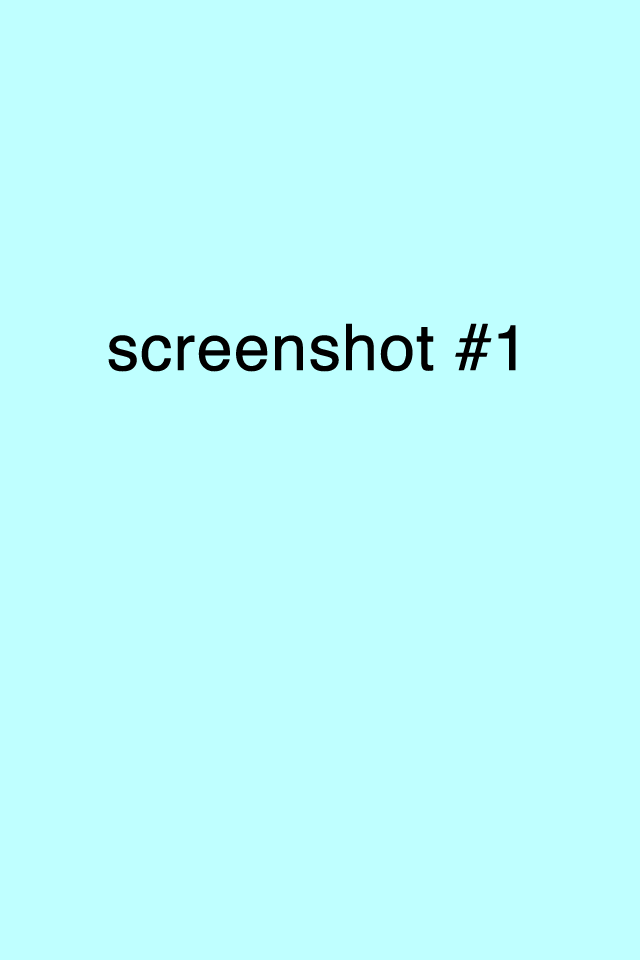
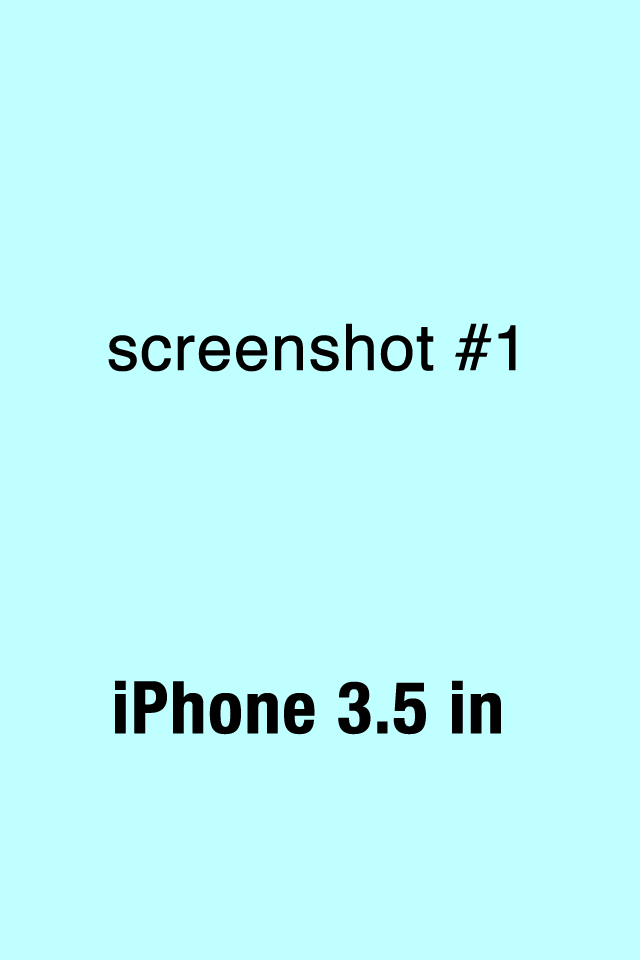
Added 4.7 and 5.5in support

Changed region(s): [[0.1562, 0.6875, 0.5, 0.7812], [0.5312, 0.6875, 0.7812, 0.7812]]

diff --git a/itunesfslib/converter.py b/itunesfslib/converter.py
@@ -108,7 +108,7 @@ def convert(path, outpath=''):
                     locale.update({asset_type : literal(asset)})
                 elif asset_type == 'screenshots':
                     devices_screenshots = {}
-                    for device in ['iphone_4in', 'iphone_3.5in', 'ipad']:
+                    for device in ['iphone_3.5in', 'iphone_4in', 'iphone_4.7in', 'iphone_5.5in', 'ipad']:
                         device_filepath = os.path.join(filepath, device)
                         if not os.path.exists(device_filepath):
                             continue

diff --git a/itunesfslib/command_line.py b/itunesfslib/command_line.py
@@ -59,7 +59,7 @@ def main():
                """you have to install itmsp from https://github.com/colinhumber/itunes_transporter_generator.\n\n"""
                """If you have ruby installed, run:\n   \"$ gem install itunes_transporter_generator\"""")
     os.chdir(savepath)
-    success = not subprocess.call([executable_path, 'package', '-i', 'output.yaml'])
+    success = not subprocess.call([executable_path, 'package', '-i', 'output.yaml','--prefix-image'])
     if not success:
         myexit('Failed to convert output.yaml to .itmsp package')
 

diff --git a/setup.py b/setup.py
@@ -10,7 +10,7 @@ if sys.version_info < (3, 0):
 
 setup(
     name='itunesfs',
-    version='1.0.0.7',
+    version='1.0.0.8',
     description='Script (python3 atm) for generating an iTunes Connect package (.itmsp) straight from your file system',
     long_description=open('README.rst', "r", encoding='utf-8-sig').read(),
     author='Petros Douvantzis',

diff --git a/README.md b/README.md
@@ -85,7 +85,7 @@ For ease of use, add this alias to your bash profile.
 
 ####Using iTMSTransporter:
 
-Remember to escape with "\" special characters like "$" in the password field. Also the path can be either the path for one package or the path for a folder containing one ore more packages.
+Remember to escape with "\" special characters like "$" in the password field. Also the path can be either the path for one package or the path for a folder containing one or more packages.
 
 To verify the package:
 	
